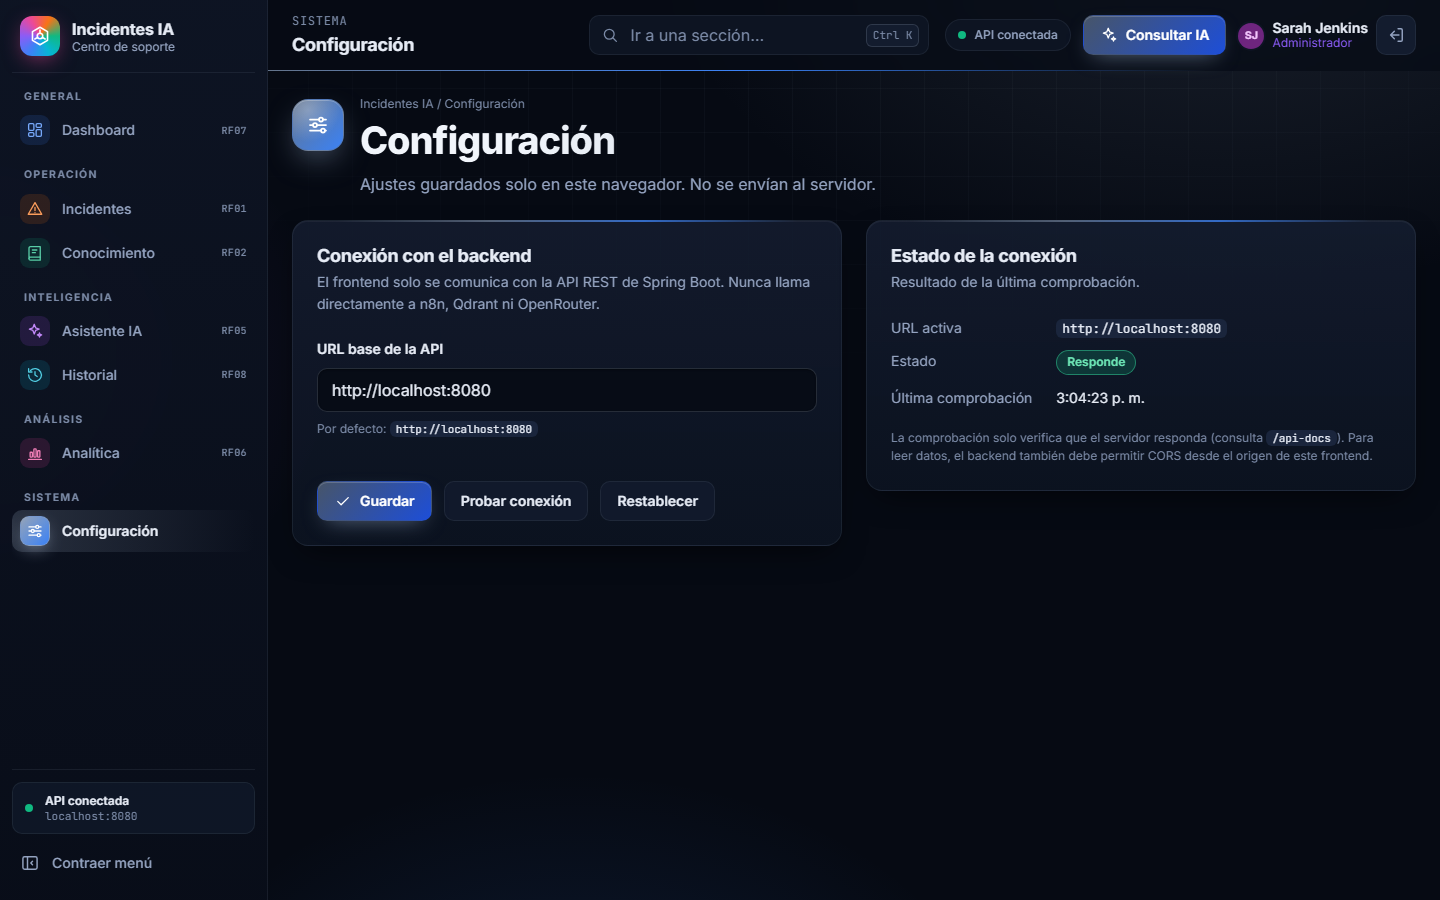
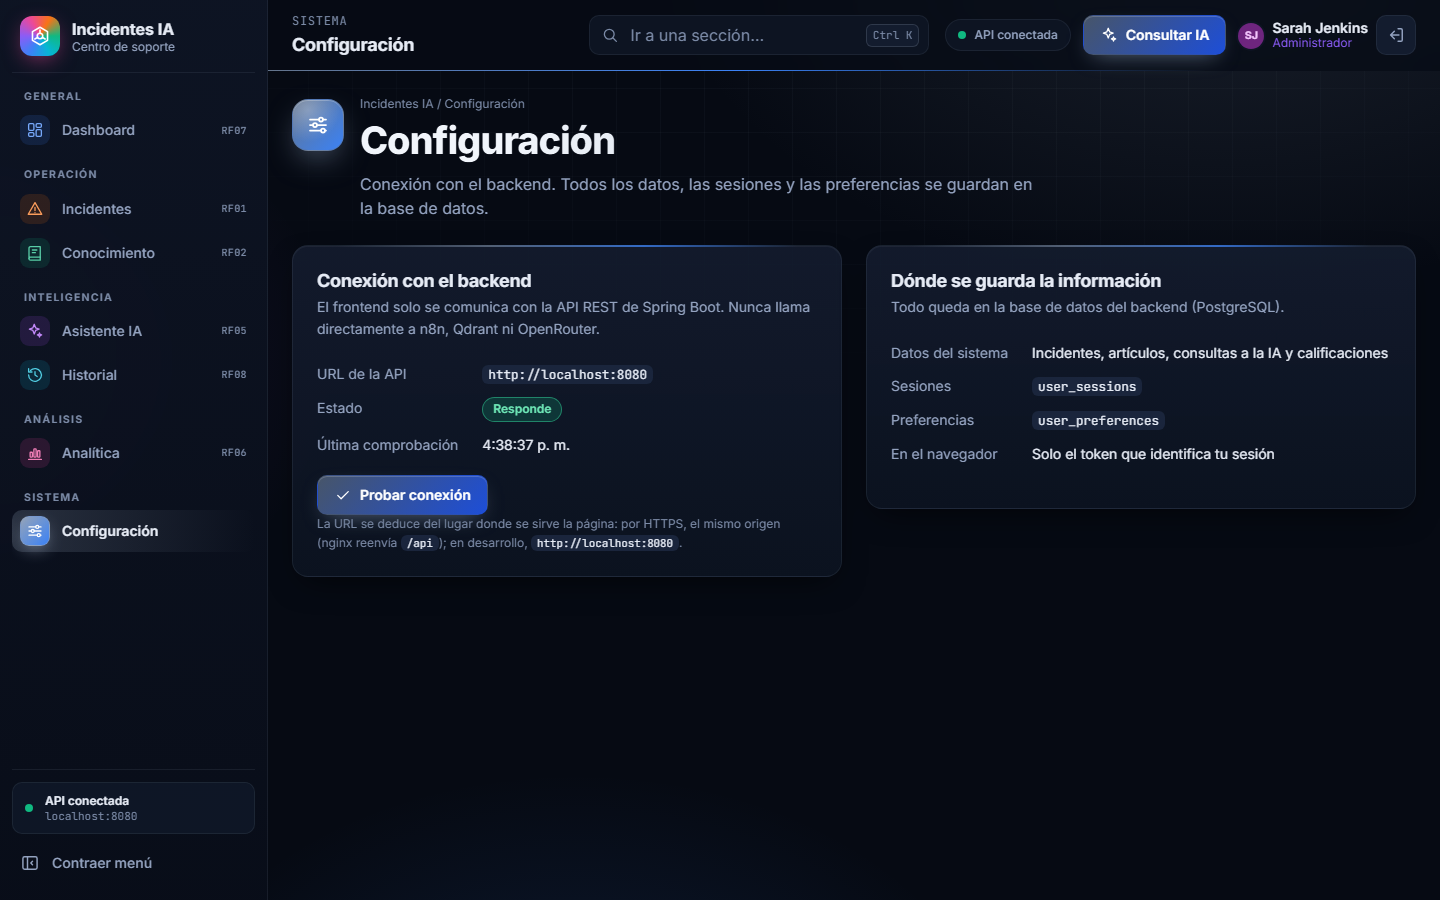
docs: document that sessions and preferences live in the database
- README: sessions in user_sessions, preferences in user_preferences,
  only the token in the browser; H2 is for development only
- ER diagram: USER_SESSIONS and USER_PREFERENCES
- docs/pruebas: section 3g (browser + SQL check of every step),
  backend 63 and frontend 47 tests
- AI_USAGE.md, presentation figures and the Configuration screenshot

Changed region(s): [[0.1875, 0.1867, 0.9688, 0.5289], [0.2188, 0.5289, 0.5312, 0.6222]]

diff --git a/docs/presentacion/index.html b/docs/presentacion/index.html
@@ -208,7 +208,7 @@
     <span class="eyebrow">Calidad</span>
     <h2>Probado de punta a punta</h2>
     <div class="grid g4">
-      <div class="card kpi"><b>104/104</b><span>pruebas automáticas: 60 del backend y 44 del frontend</span></div>
+      <div class="card kpi"><b>110/110</b><span>pruebas automáticas: 63 del backend y 47 del frontend</span></div>
       <div class="card kpi"><b>25/25</b><span>peticiones de la colección Postman</span></div>
       <div class="card kpi"><b>4/4</b><span>escenarios del flujo de IA</span></div>
       <div class="card kpi"><b>5</b><span>servicios con Docker Compose</span></div>

diff --git a/README.md b/README.md
@@ -156,7 +156,9 @@ Seguridad:
 
 - **Contraseñas:** se guardan como hash BCrypt, nunca en texto plano. Al arrancar, el backend asigna `DEMO_PASSWORD` a los usuarios que todavía no tienen contraseña, y nunca sobrescribe las que ya existen. Fuera de una demostración, cámbiala en el `.env`.
 - **Inicio de sesión:** un correo inexistente y una contraseña incorrecta reciben la misma respuesta (`401`, *Correo o contraseña incorrectos*). Así no se puede averiguar qué correos están registrados.
-- **Errores:** sin token, o con un token vencido o alterado, la respuesta es `401` y el frontend vuelve al login. Si el rol no alcanza o el recurso es de otra persona, la respuesta es `403`.
+- **Sesiones en la base de datos:** cada inicio de sesión crea una fila en `user_sessions` (usuario, fecha, vencimiento y navegador) y el JWT solo lleva su identificador. En cada petición el backend comprueba que la sesión siga abierta. Al cerrar sesión (`POST /api/v1/auth/logout`) se marca como cerrada y el token deja de funcionar al instante.
+- **Nada se guarda en el navegador** salvo ese token. Los datos del usuario se leen de la base (`GET /api/v1/auth/me`) y sus preferencias (menú lateral, vista de artículos) se guardan en `user_preferences` (`GET` y `PUT /api/v1/auth/me/preferences`), así lo acompañan en cualquier equipo.
+- **Errores:** sin token, o con un token vencido, alterado o de una sesión cerrada, la respuesta es `401` y el frontend vuelve al login. Si el rol no alcanza o el recurso es de otra persona, la respuesta es `403`.
 - **n8n** no inicia sesión. Para leer artículos usa el `X-Callback-Token`, que le da un rol de servicio limitado a esa lectura.
 - **Rutas públicas:** solo el login, `/api-docs` y `/swagger-ui`. Para usar Swagger, ejecuta `POST /api/v1/auth/login`, pulsa **Authorize** y pega el `accessToken`.
 
@@ -188,7 +190,7 @@ Cada cuenta de demostración rellena el correo con un clic. Después del login, 
 |:-:|:-:|
 | ![Detalle de un artículo con verificar y desactivar](docs/evidencias/frontend/07-admin-articulo.png) | ![Historial de consultas](docs/evidencias/frontend/09-admin-historial.png) |
 
-| **Analítica:** indicadores y gráficos calculados con SQL | **Configuración:** conexión con la API (solo administrador) |
+| **Analítica:** indicadores y gráficos calculados con SQL | **Configuración:** conexión con la API y dónde se guarda cada dato (solo administrador) |
 |:-:|:-:|
 | ![Analítica](docs/evidencias/frontend/10-admin-analitica.png) | ![Configuración](docs/evidencias/frontend/11-admin-configuracion.png) |
 
@@ -307,10 +309,10 @@ Por seguridad, los puertos se publican **solo en `127.0.0.1`**. Si alguno está 
 │       │   ├── exception/      # Errores en JSON (400, 401, 403, 404, 409)
 │       │   └── config/         # CORS, callbacks, cliente HTTP, OpenAPI
 │       ├── main/resources/     # application.properties, data.sql
-│       └── test/               # 60 pruebas de integración
+│       └── test/               # 63 pruebas de integración
 ├── frontend/                   # HTML, CSS y JavaScript sin frameworks (ver frontend/README.md)
 │   ├── index.html  css/  js/  assets/
-│   └── tests/                  # 44 pruebas unitarias (node:test)
+│   └── tests/                  # 47 pruebas unitarias (node:test)
 ├── n8n/
 │   ├── workflows/              # 01 indexación · 02 asistencia RAG · 03 combinado (el que se activa)
 │   ├── setup.sh                # Configura n8n al arrancar
@@ -389,10 +391,10 @@ Las claves nunca se escriben en el código ni en el repositorio: van en el `.env
 Se ejecutan en contenedores temporales, desde la raíz del repositorio.
 
 ```bash
-# Backend: 60 pruebas de integración (MockMvc sobre H2)
+# Backend: 63 pruebas de integración (MockMvc sobre H2)
 docker run --rm -v "$PWD/backend":/app -w /app maven:3.9.9-eclipse-temurin-21 mvn -q -B test
 
-# Frontend: 44 pruebas unitarias
+# Frontend: 47 pruebas unitarias
 docker run --rm -v "$PWD/frontend":/app -w /app node:22-alpine node --test "tests/*.test.mjs"
 ```
 
@@ -462,6 +464,7 @@ python -m http.server 5500
 
 - Consola H2: http://localhost:8080/h2-console (JDBC URL `jdbc:h2:mem:incidents_db`, usuario `sa`).
 - Sin n8n, las consultas a la IA quedan en *Error de conexión*. El resto del sistema funciona.
+- **H2 en memoria es solo para desarrollo y pruebas:** sus datos (incluidas sesiones y preferencias) se pierden al detener el backend. Para que todo quede guardado de forma permanente, usa Docker Compose, que trabaja con PostgreSQL.
 
 ---
 
@@ -553,7 +556,7 @@ Lo primero es revisar `docker compose ps` y los logs del servicio que falla (`do
 | El webhook de n8n responde `403 Authorization data is wrong!` | El token no coincide. Revisa `N8N_WEBHOOK_AUTH_VALUE` y ejecuta `docker compose up -d backend n8n` |
 | El webhook de n8n responde `404` | El flujo no está activo. Mira `docker compose logs n8n` y ejecuta `docker compose restart n8n` |
 | Cambios en el editor de n8n desaparecen al reiniciar | Es lo esperado: el flujo se reimporta del repositorio ([sección 5](#5-n8n-configuración-automática)). Usa `N8N_AUTO_SETUP=false` para editar en la interfaz |
-| La página dice "API sin conexión" | El backend no está *healthy*, o la página se abrió como archivo (`file://`). En *Configuración*, la URL debe ser `http://localhost:8080` |
+| La página dice "API sin conexión" | El backend no está *healthy*, o la página se abrió como archivo (`file://`). Ábrela en http://localhost:5500 o https://localhost:5443 |
 | El login dice *Correo o contraseña incorrectos* | La contraseña es la de `DEMO_PASSWORD` (`Soporte2026*`). Si cambiaste `DEMO_PASSWORD` después del primer arranque, sigue valiendo la anterior: solo se asigna a usuarios sin contraseña |
 | La sesión se cierra cada vez que se reinicia el backend | `JWT_SECRET` está vacío en el `.env` (paso 1.2) |
 | Las consultas a la IA quedan en "Error de conexión" | n8n está apagado o sin el flujo activo. Revisa `docker compose logs n8n` |

diff --git a/docs/pruebas/README.md b/docs/pruebas/README.md
@@ -4,8 +4,9 @@ Pruebas ejecutadas sobre la rama `devsergy` el 12 de noviembre de 2026. La secci
 
 | Nivel | Herramienta | Casos | Resultado |
 |---|---|---:|---|
-| Integración del backend | JUnit 5 + MockMvc (`mvn test`) | 60 | ✅ 60 / 60 |
-| Unitarias del frontend | `node:test` (`node --test "frontend/tests/*.test.mjs"`) | 44 | ✅ 44 / 44 |
+| Integración del backend | JUnit 5 + MockMvc (`mvn test`) | 63 | ✅ 63 / 63 |
+| Unitarias del frontend | `node:test` (`node --test "frontend/tests/*.test.mjs"`) | 47 | ✅ 47 / 47 |
+| Persistencia en la base de datos (sesiones y preferencias) | API real + Edge sin interfaz + consultas SQL | 5 | ✅ 5 / 5 |
 | Contrato de la API | Colección Postman / script HTTP | 25 | ✅ 25 / 25 |
 | Contrato del flujo de IA | n8n simulado con el contrato del flujo 02 | 4 | ✅ 4 / 4 |
 | Integración real (auditoría) | Docker: n8n, Qdrant, PostgreSQL y OpenRouter reales | 10 escenarios | ✅ 7 · ⏸ 3 sin clave de OpenRouter |
@@ -31,7 +32,7 @@ Pruebas ejecutadas sobre la rama `devsergy` el 12 de noviembre de 2026. La secci
 ```bash
 cd backend
 mvn test
-# Tests run: 60, Failures: 0, Errors: 0, Skipped: 0 — BUILD SUCCESS
+# Tests run: 63, Failures: 0, Errors: 0, Skipped: 0 — BUILD SUCCESS
 ```
 
 | # | Grupo | Caso | Qué valida | Resultado |
@@ -75,6 +76,9 @@ mvn test
 | 58 | Incidentes | `seedResolvedIncidentsHaveAResolutionDate` | Los incidentes resueltos de `data.sql` tienen `resolvedAt`; los abiertos no | ✅ |
 | 59 | Incidentes | `resolvingSetsTheResolutionDateAndReopeningClearsIt` | Resolver registra la fecha de resolución; reabrir la borra | ✅ |
 | 60 | Catálogos | `usersIncludeTheirArea` | Cada usuario tiene su área (p. ej. Laura Chen: Finance) | ✅ |
+| 61 | Sesiones | `loginStoresTheSessionInTheDatabase` | Iniciar sesión crea una fila abierta en `user_sessions` | ✅ |
+| 62 | Sesiones | `logoutClosesTheSessionAndTheTokenStopsWorking` | Tras cerrar sesión, el mismo token da 401 y la fila queda con `revoked_at` | ✅ |
+| 63 | Preferencias | `preferencesAreStoredPerUser` | Se guardan por usuario, la actualización parcial conserva lo demás y un valor inválido da 400 | ✅ |
 
 ## 1b. Pruebas unitarias del frontend
 
@@ -82,7 +86,7 @@ mvn test
 
 ```bash
 node --test "frontend/tests/*.test.mjs"
-# tests 44 · pass 44 · fail 0
+# tests 47 · pass 47 · fail 0
 ```
 
 | Grupo | Casos | Qué valida |
@@ -93,7 +97,7 @@ node --test "frontend/tests/*.test.mjs"
 | `catalogs.js` / `ui.js` | 4 | Estado "Sin resultados" deducido, los 5 estados del backend, escape de HTML ante valores inesperados |
 | `api-messages.js` | 2 | Traducción al español de los mensajes del backend |
 | `api.js` y servicio de IA | 7 | URL y parámetros, cuerpo JSON, mensajes de error de Spring (400 y 409), error de red, validación previa de la descripción |
-| Sesión y roles (`auth.test.mjs`) | 15 | Vencimiento del token, secciones de cada rol, envío del JWT, respuesta ante 401 y 403 |
+| Sesión y roles (`auth.test.mjs`) | 18 | Vencimiento del token, secciones de cada rol, envío del JWT, respuesta ante 401 y 403; el navegador solo guarda el token y cerrar sesión llama al servidor |
 | Fallos de la IA (`failure-hints.test.mjs`) | 2 | Las indicaciones de fallo que el backend envía en inglés se muestran en español |
 
 ## 2. Contrato de la API
@@ -281,6 +285,20 @@ Además se comprobó lo siguiente:
 - **Sesión:**
   - cerrar sesión vuelve al login y borra el token;
   - con un token inválido, la primera petición devuelve 401 y la aplicación vuelve al login con *Tu sesión expiró*.
+
+## 3g. Todo se guarda en la base de datos
+
+Entorno: el stack de Docker Compose con PostgreSQL. Se inició sesión en el navegador como Laura Chen y se consultó la base después de cada paso.
+
+| # | Paso | Navegador (`localStorage`) | Base de datos | Estado |
+|---|---|---|---|---|
+| 1 | Iniciar sesión (con datos de una versión anterior en el navegador) | Solo `incidentes-ia:token`; las claves antiguas se borran | Fila nueva en `user_sessions` con fecha, vencimiento y navegador | ✅ |
+| 2 | Abrir Conocimiento | Igual | Las preferencias guardadas antes (menú contraído, vista de tabla) se leen de `user_preferences` y se aplican | ✅ |
+| 3 | Recargar la página | Igual | El usuario se lee con `GET /auth/me`; las preferencias siguen aplicadas | ✅ |
+| 4 | Expandir el menú y pasar a tarjetas | Igual | `user_preferences`: `sidebar_collapsed = false`, `knowledge_view = cards` | ✅ |
+| 5 | Cerrar sesión | Vacío | La fila de la sesión queda con `revoked_at`; el mismo token responde 401 | ✅ |
+
+La URL de la API ya no se guarda en el navegador: se deduce del lugar donde se sirve la página.
 
 ## 4. Despliegue con Docker Compose
 

diff --git a/AI_USAGE.md b/AI_USAGE.md
@@ -47,7 +47,8 @@ Este documento registra las herramientas de IA usadas en el desarrollo, su parti
 | Configuración automática de n8n al arrancar (`n8n/setup.sh`) | Código generado | `5d4c8e1` |
 | README reorganizado y capturas de cada rol | Redacción y capturas automatizadas | `f736670`, `c99be9e` |
 | Traducción al inglés del backend y de todos los comentarios; un comentario por función | Traducción y redacción | `cd5a00e`, `fe5fee9` |
-| Revisión contra el enunciado: área del usuario, fecha de resolución, consultas del informe en PostgreSQL, documentos actualizados | Auditoría y corrección | `c62d8d9` y el commit de documentación siguiente |
+| Revisión contra el enunciado: área del usuario, fecha de resolución, consultas del informe en PostgreSQL, documentos actualizados | Auditoría y corrección | `c62d8d9`, `fcd7dbe` |
+| Sesiones y preferencias en la base de datos (`user_sessions`, `user_preferences`); el navegador solo guarda el token | Código generado y probado en el navegador | `76bb364` |
 
 ### Decisiones técnicas tomadas con apoyo de la IA
 
@@ -71,6 +72,7 @@ Este documento registra las herramientas de IA usadas en el desarrollo, su parti
 14. **Umbral de similitud 0,55**, medido con 13 incidentes reales: separa los incidentes con artículo (0,675–0,809) de los que no tienen relación (0,220–0,367).
 15. **Tiempo de atención = `resolved_at − created_at`**, la fecha en que el incidente pasó a resuelto, y no la última modificación.
 16. **Código del backend y comentarios en inglés**; los textos de la interfaz siguen en español y el frontend traduce los mensajes del backend.
+17. **Todo se guarda en la base de datos.** Las sesiones son filas de `user_sessions` que se validan en cada petición y se cierran al salir; las preferencias de cada usuario están en `user_preferences`. En el navegador solo queda el token, que es lo mínimo para mantener la sesión al recargar la página.
 
 ### Verificación
 

diff --git a/docs/diagramas/README.md b/docs/diagramas/README.md
@@ -16,6 +16,8 @@ erDiagram
     KNOWLEDGE_ARTICLES |o--o{ RESPONSE_SOURCES : "respalda"
     AI_RESPONSES ||--o| RATINGS : "es calificada"
     USERS ||--o{ RATINGS : "evalúa"
+    USERS ||--o{ USER_SESSIONS : "inicia"
+    USERS ||--o| USER_PREFERENCES : "configura"
 
     USERS {
         bigint id PK
@@ -96,12 +98,28 @@ erDiagram
         bigint ai_response_id FK,UK
         bigint evaluator_user_id FK
     }
+    USER_SESSIONS {
+        varchar id PK "UUID = jti del JWT"
+        bigint user_id FK
+        timestamp created_at
+        timestamp expires_at
+        timestamp revoked_at "al cerrar sesión"
+        varchar user_agent
+    }
+    USER_PREFERENCES {
+        bigint user_id PK,FK
+        boolean sidebar_collapsed
+        varchar knowledge_view "cards | table"
+        timestamp updated_at
+    }
 ```
 
 Reglas de negocio reflejadas en el modelo:
 
 - Un incidente puede tener varias consultas a la IA; cada consulta tiene como máximo **una** respuesta (`ai_query_id` único).
 - Cada respuesta tiene como máximo **una** calificación (`ai_response_id` único en `ratings`).
+- Cada inicio de sesión es una fila de `user_sessions`; el JWT solo lleva su `id`. Una sesión cerrada (`revoked_at`) o vencida ya no autentica.
+- Las preferencias de la interfaz de cada usuario están en `user_preferences` (una fila por usuario, misma clave).
 - Una fuente puede apuntar a un artículo de la base de conocimiento. Solo los artículos `is_active` e `is_verified` se usan en el RAG.
 - No se registran incidentes ni artículos nuevos en una categoría inactiva, y un incidente `CLOSED` ya no cambia de estado ni se consulta con la IA.
 
